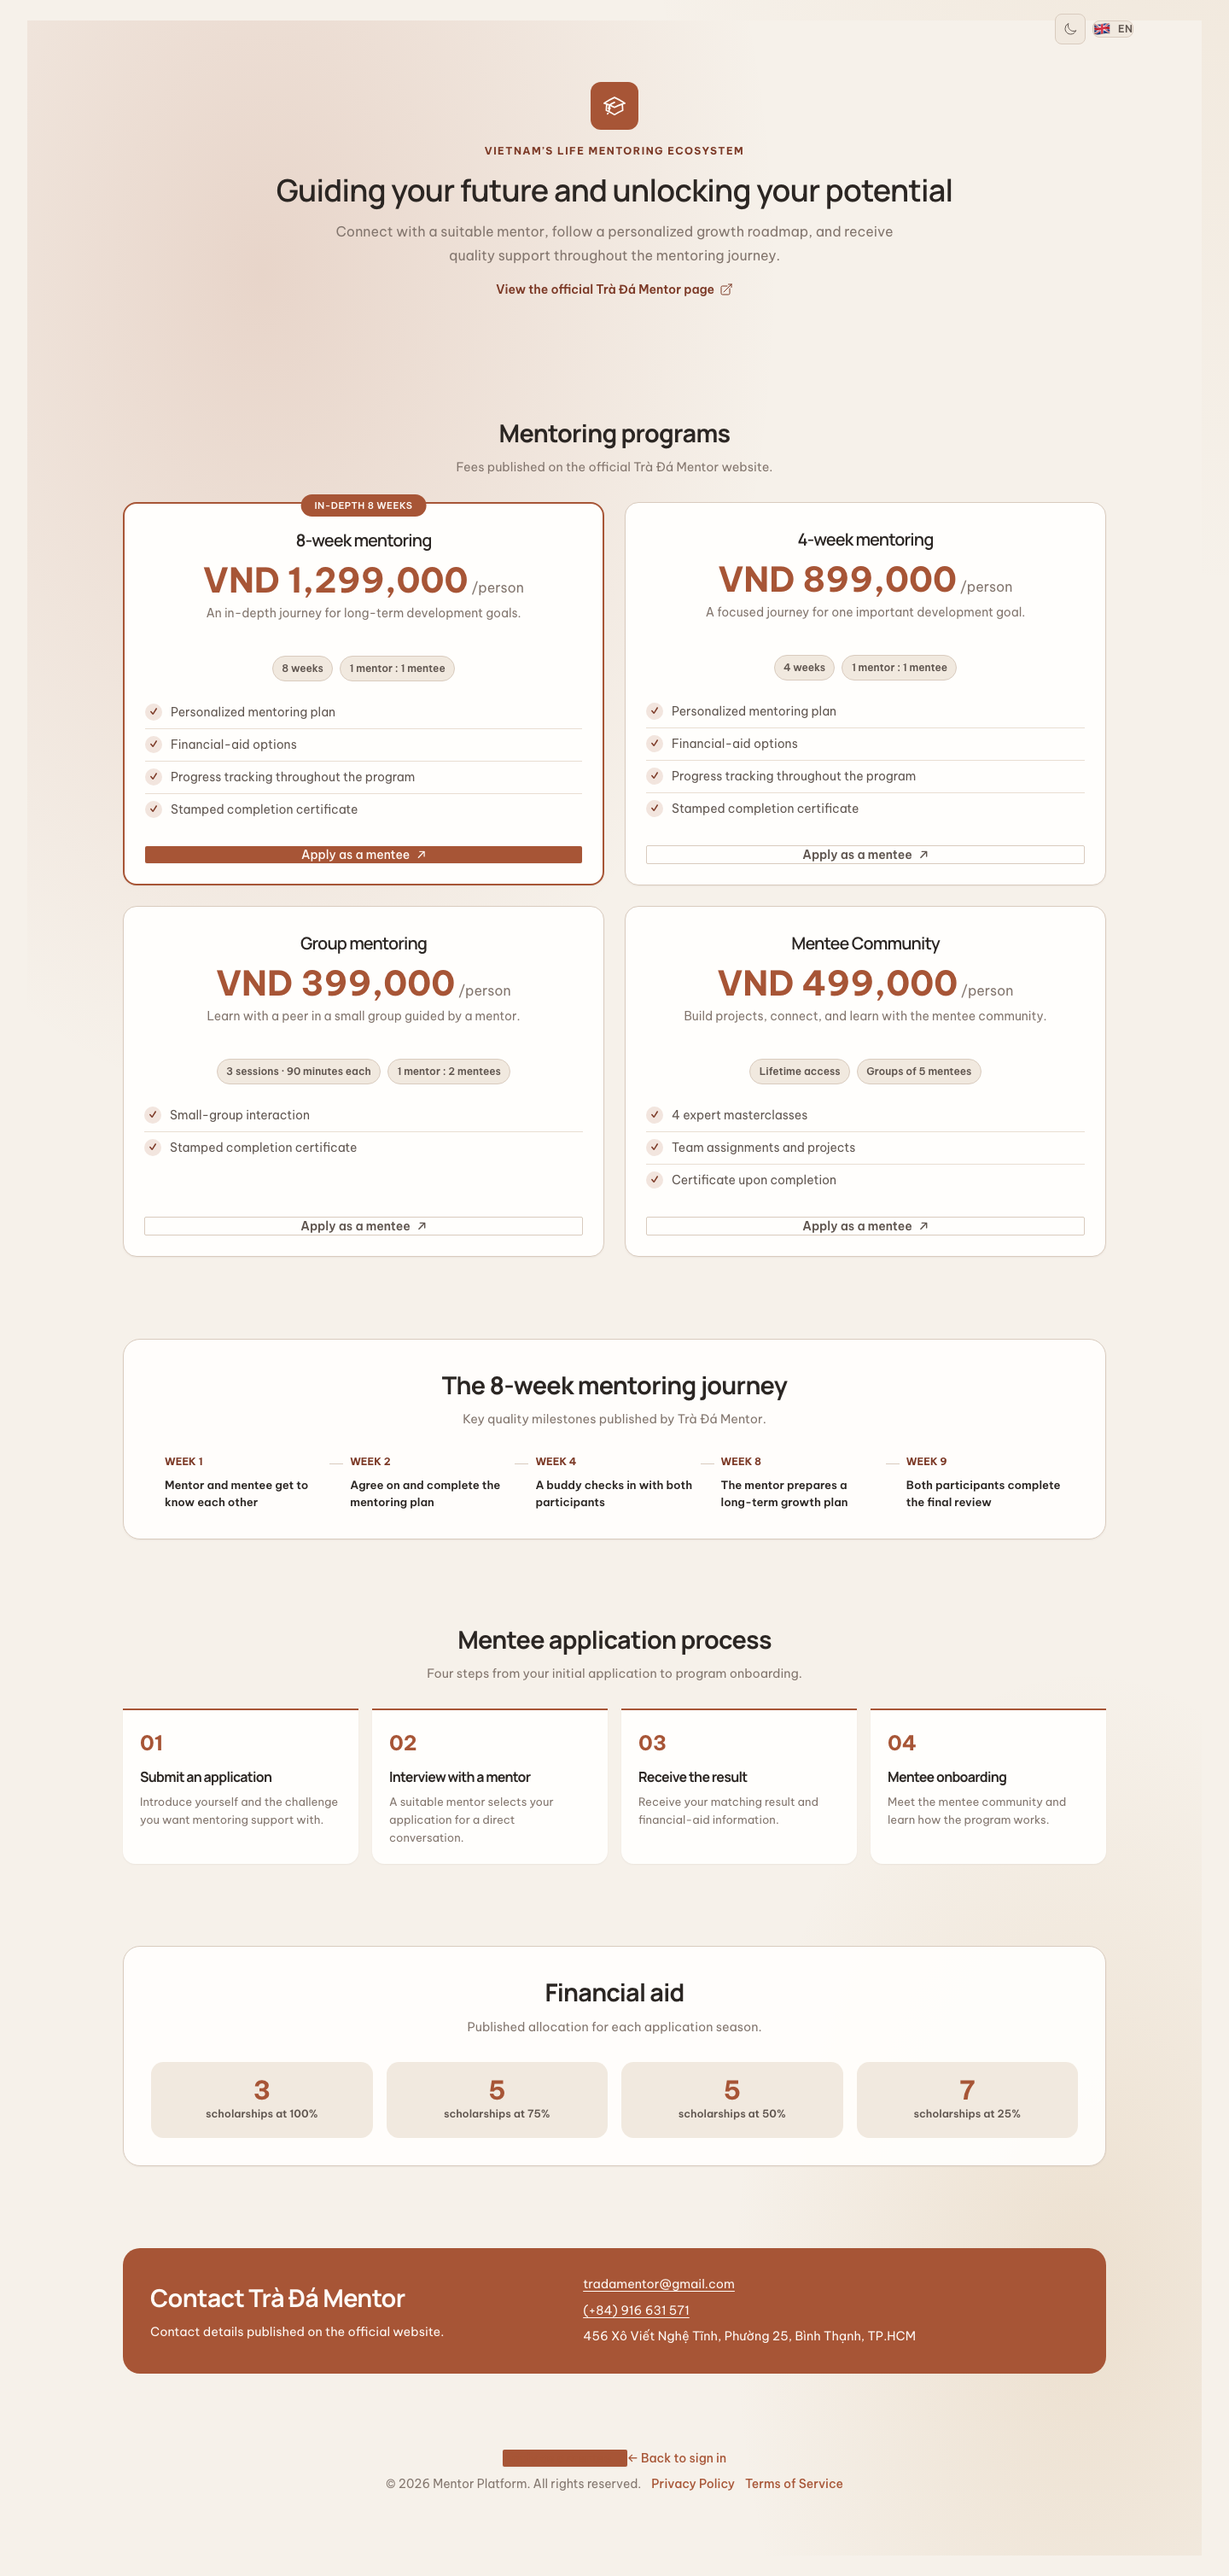
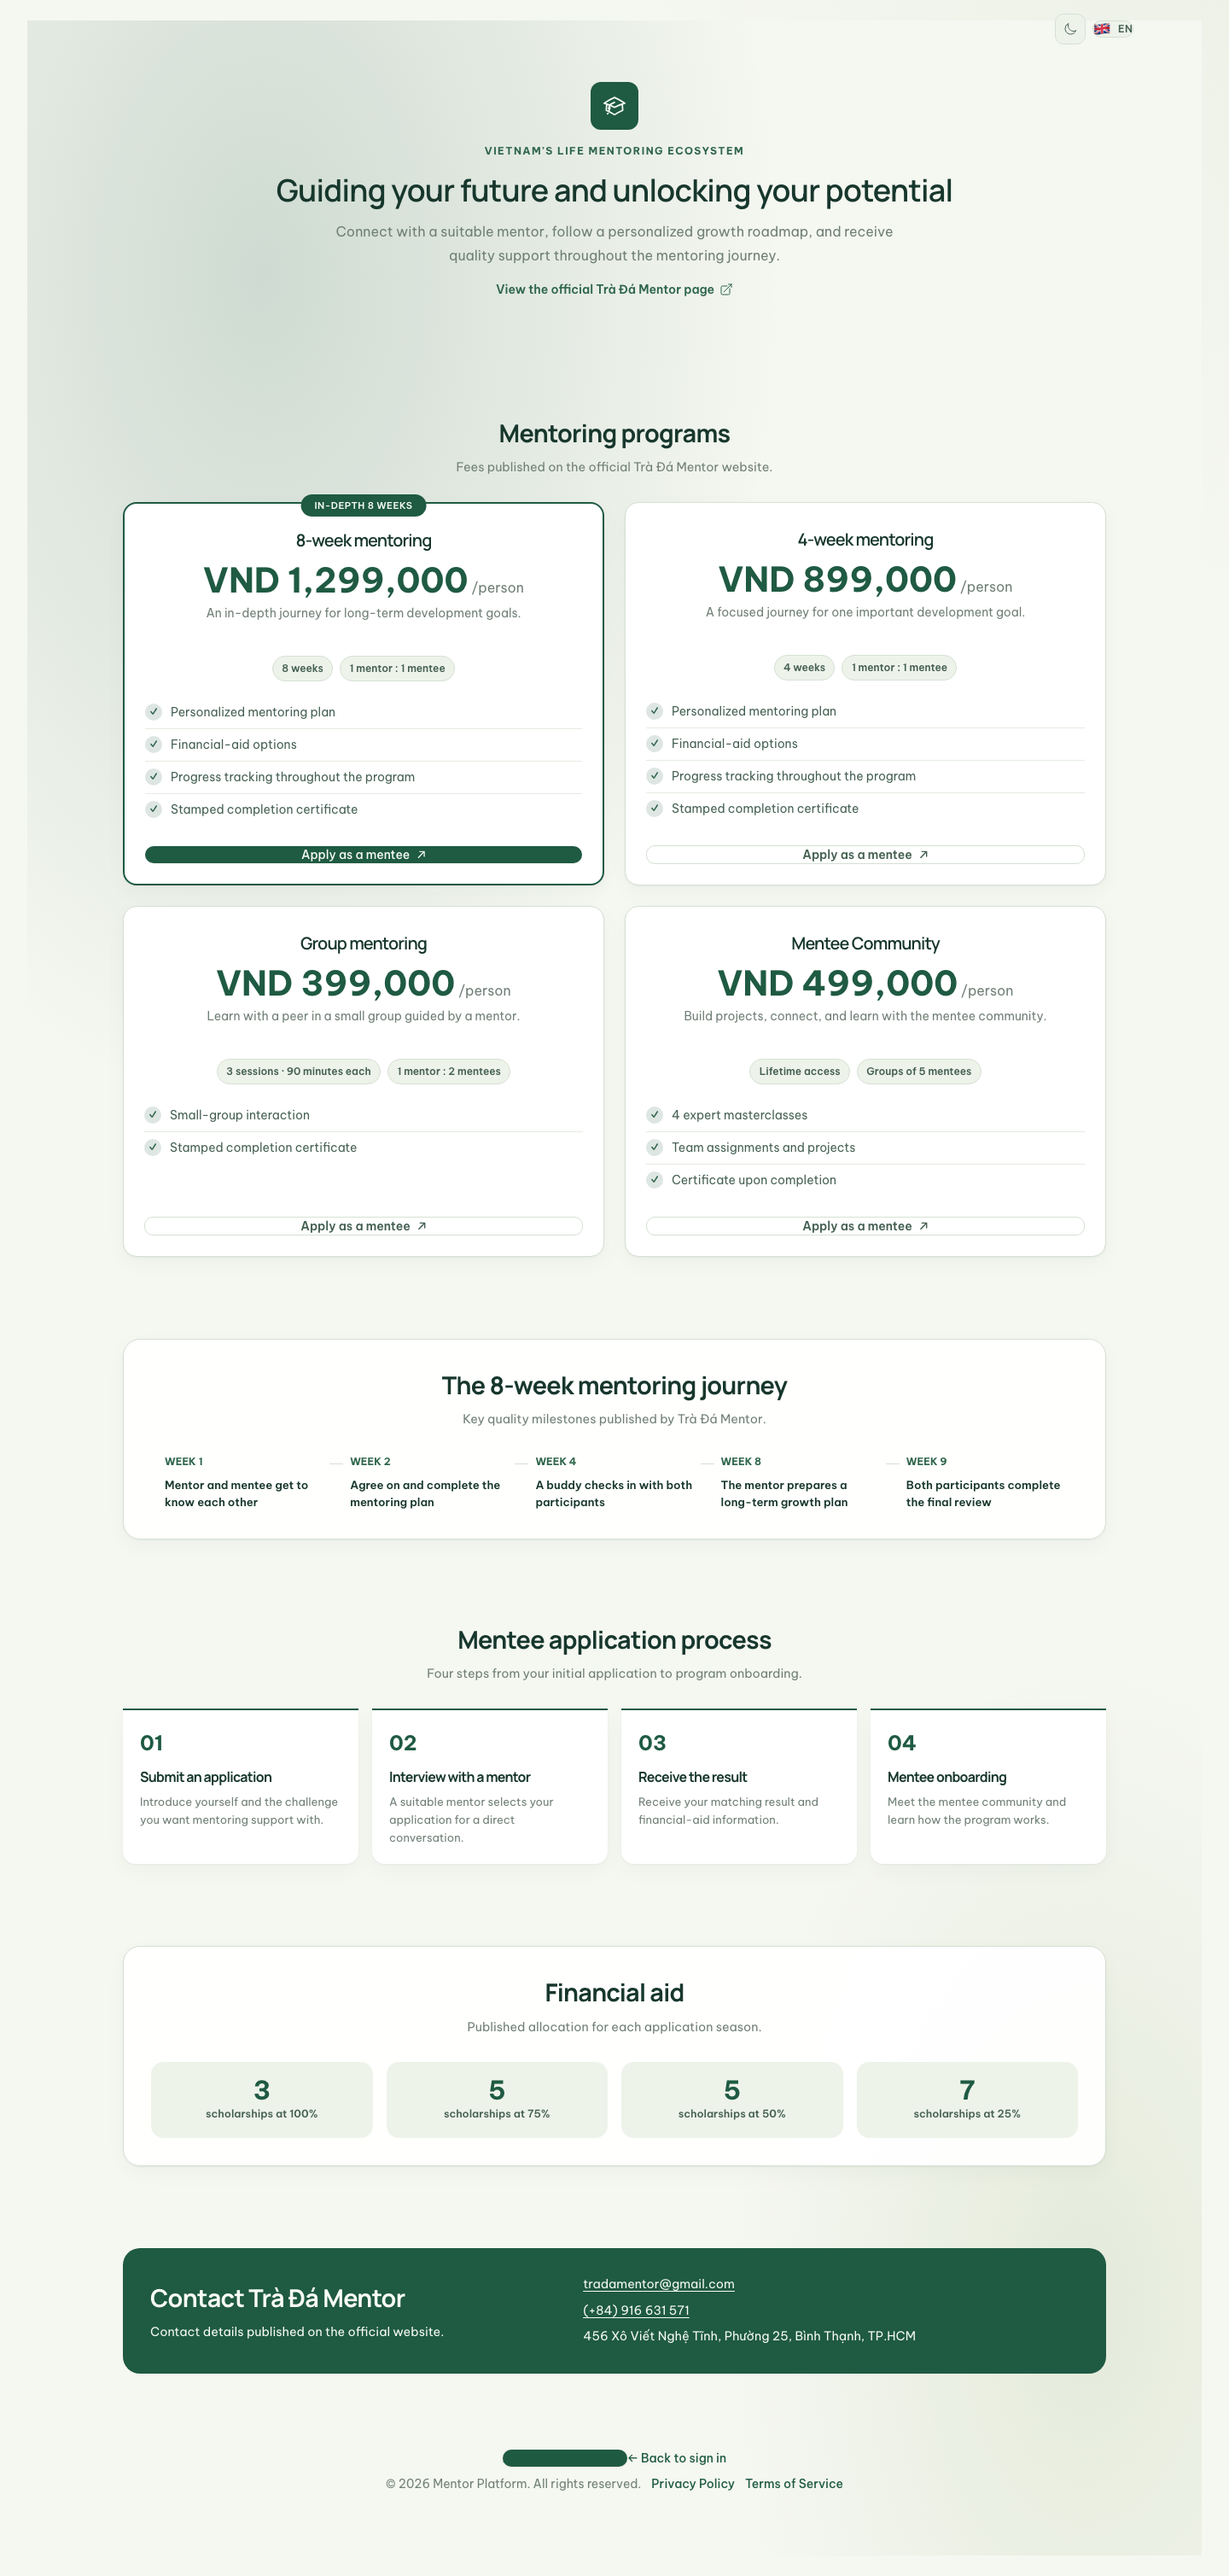
Restore green brand polish
Bring back the Trà Đá Mentor green as the primary visual identity while softening supporting sage tones. Standardize surface radii, borders, shadows, and transitions so internal navigation, cards, buttons, inputs, and progress elements feel cohesive and smooth.\n\nCo-authored-by: Copilot <223556219+Copilot@users.noreply.github.com>

diff --git a/src/index.css b/src/index.css
@@ -14,64 +14,67 @@
   }
 
   :root {
-    --bg-app: #f6f1ea;
-    --bg-sidebar: #fffcf8;
-    --bg-surface: #fffefc;
-    --bg-surface-muted: #f1e9df;
-    --bg-surface-hover: #e9ded2;
-    --bg-inset: #f5eee7;
-    --border-default: #d9cbbe;
-    --border-subtle: #e9ded2;
-    --text-primary: #2b2623;
-    --text-secondary: #5f554f;
-    --text-muted: #82756d;
-    --text-on-accent: #fffaf6;
-    --accent: #a75536;
-    --accent-hover: #8e432b;
-    --accent-subtle: #f3e2d9;
-    --accent-subtle-fg: #7b3825;
-    --accent-secondary: #b98542;
-    --accent-secondary-hover: #c99551;
+    --bg-app: #f5f7f1;
+    --bg-sidebar: #fcfdf9;
+    --bg-surface: #ffffff;
+    --bg-surface-muted: #eef3ea;
+    --bg-surface-hover: #e3ebdd;
+    --bg-inset: #f6f8f3;
+    --border-default: #d5e0d3;
+    --border-subtle: #e4ece1;
+    --text-primary: #17372d;
+    --text-secondary: #456052;
+    --text-muted: #6f7f75;
+    --text-on-accent: #f8fcf6;
+    --accent: #1f5a43;
+    --accent-hover: #174735;
+    --accent-subtle: #e5f0e4;
+    --accent-subtle-fg: #2e654a;
+    --accent-secondary: #8daa64;
+    --accent-secondary-hover: #a9c27c;
     --danger: #b84a45;
     --danger-hover: #963b37;
-    --shadow-card: 0 1px 2px rgb(74 54 42 / 0.06);
-    --ring-offset: #f6f1ea;
-    --primary-color: #a75536;
-    --secondary-color: #7b3825;
-    --accent-color: #b98542;
-    --light-accent: #f3e2d9;
-    --border-radius: 4px;
+    --shadow-card: 0 1px 2px rgb(24 63 45 / 0.05), 0 8px 24px rgb(24 63 45 / 0.035);
+    --ring-offset: #f5f7f1;
+    --primary-color: #1f5a43;
+    --secondary-color: #2e654a;
+    --accent-color: #8daa64;
+    --light-accent: #e5f0e4;
+    --border-radius: 12px;
+    --radius-sm: 10px;
+    --radius-md: 14px;
+    --radius-lg: 18px;
     --transition: all 0.25s cubic-bezier(0.4, 0, 0.2, 1);
   }
 
   .dark {
     color-scheme: dark;
-    --bg-app: #171514;
-    --bg-sidebar: #201c1a;
-    --bg-surface: #24201e;
-    --bg-surface-muted: #302925;
-    --bg-surface-hover: #3a302a;
-    --bg-inset: #1d1917;
-    --border-default: #4a3c34;
-    --border-subtle: #382f2a;
-    --text-primary: #f8f1ea;
-    --text-secondary: #d9c9bd;
-    --text-muted: #a89689;
-    --text-on-accent: #fff8f2;
-    --accent: #d98763;
-    --accent-hover: #e6a17f;
-    --accent-subtle: #4a2c22;
-    --accent-subtle-fg: #f1b49a;
-    --accent-secondary: #d2a164;
-    --accent-secondary-hover: #e0b879;
+    --bg-app: #071e16;
+    --bg-sidebar: #0b281d;
+    --bg-surface: #0f3023;
+    --bg-surface-muted: #153c2e;
+    --bg-surface-hover: #1b4937;
+    --bg-inset: #0b281d;
+    --border-default: #285641;
+    --border-subtle: #1d4634;
+    --text-primary: #f4f7f1;
+    --text-secondary: #d2ded5;
+    --text-muted: #9bb0a2;
+    --text-on-accent: #f7fbf4;
+    --accent: #a9cf77;
+    --accent-hover: #c0e396;
+    --accent-subtle: #183e2e;
+    --accent-subtle-fg: #d8e9b8;
+    --accent-secondary: #b6c982;
+    --accent-secondary-hover: #c9dc9b;
     --danger: #e58378;
     --danger-hover: #f09a8e;
     --shadow-card: none;
-    --ring-offset: #24201e;
-    --primary-color: #d98763;
-    --secondary-color: #e6a17f;
-    --accent-color: #d2a164;
-    --light-accent: #4a2c22;
+    --ring-offset: #0f3023;
+    --primary-color: #a9cf77;
+    --secondary-color: #d8e9b8;
+    --accent-color: #b6c982;
+    --light-accent: #183e2e;
   }
 
   body {
@@ -108,6 +111,7 @@
   /* Surfaces — colors come from the Tailwind theme, which reads the CSS variables above */
   .card {
     @apply rounded-xs border border-surface-border bg-surface transition-shadow duration-200;
+    border-radius: var(--radius-md);
     box-shadow: var(--shadow-card);
   }
 
@@ -125,6 +129,7 @@
     background-color: var(--bg-surface-muted);
     border: 1px solid var(--border-subtle);
     @apply rounded-lg px-3 py-3 transition-colors;
+    border-radius: var(--radius-sm);
   }
 
   .list-row:hover {
@@ -158,6 +163,7 @@
   /* Buttons */
   .btn {
     @apply inline-flex items-center justify-center gap-2 rounded-xs px-4 py-2.5 text-sm font-semibold transition-all duration-200 disabled:opacity-50 disabled:cursor-not-allowed focus:outline-hidden focus:ring-2 focus:ring-offset-2;
+    border-radius: var(--radius-sm);
     --tw-ring-offset-color: var(--ring-offset);
   }
 
@@ -238,6 +244,7 @@
   /* Form */
   .input {
     @apply w-full rounded-lg border border-surface-border bg-surface px-3.5 py-2.5 text-sm text-primary transition-colors placeholder:text-muted focus:outline-hidden focus:ring-2;
+    border-radius: var(--radius-sm);
   }
 
   .input:focus {
@@ -252,6 +259,7 @@
   /* Stats */
   .stat-card {
     @apply rounded-xs border border-surface-border bg-surface p-6 flex flex-col gap-3 transition-shadow duration-200;
+    border-radius: var(--radius-md);
     box-shadow: var(--shadow-card);
   }
 
@@ -1057,14 +1065,14 @@
     border: none;
     background: var(--text-primary);
     color: var(--text-on-accent);
-    box-shadow: 0 18px 50px rgb(74 54 42 / 0.16);
+    box-shadow: 0 18px 50px rgb(8 35 25 / 0.18);
   }
 
   .dashboard-hero__mesh {
     position: absolute;
     inset: 0;
     background:
-      linear-gradient(100deg, rgb(24 20 18 / 0.6) 0%, rgb(43 38 35 / 0.22) 48%, color-mix(in srgb, var(--accent-secondary) 36%, transparent) 100%);
+      linear-gradient(100deg, rgb(5 29 20 / 0.62) 0%, rgb(17 71 53 / 0.24) 48%, color-mix(in srgb, var(--accent-secondary) 36%, transparent) 100%);
     pointer-events: none;
   }
 
@@ -2596,38 +2604,38 @@ html.motion-on [data-reveal] {
 /* ─── App shell (was App.css). Layout utilities come from the Tailwind theme. ─── */
 /* Role accent — đồng bộ --accent cho light & dark */
 .app-container.role-mentor {
-  --primary-color: #b98542;
-  --secondary-color: #8f632e;
-  --accent-color: #c99551;
-  --light-accent: #f4e8d6;
-  --accent: #b98542;
-  --accent-hover: #965f2b;
-  --accent-subtle: #f4e8d6;
-  --accent-subtle-fg: #765022;
-  --text-on-accent: #fffaf6;
+  --primary-color: #6d8d55;
+  --secondary-color: #4c6a3d;
+  --accent-color: #9ebd78;
+  --light-accent: #edf4e6;
+  --accent: #6d8d55;
+  --accent-hover: #587443;
+  --accent-subtle: #edf4e6;
+  --accent-subtle-fg: #4f6e3e;
+  --text-on-accent: #f8fcf6;
 }
 
 .app-container.role-mentee,
 .app-container.role-admin {
-  --primary-color: #a75536;
-  --secondary-color: #7b3825;
-  --accent-color: #b98542;
-  --light-accent: #f3e2d9;
-  --accent: #a75536;
-  --accent-hover: #8e432b;
-  --accent-subtle: #f3e2d9;
-  --accent-subtle-fg: #7b3825;
-  --text-on-accent: #fffaf6;
+  --primary-color: #1f5a43;
+  --secondary-color: #2e654a;
+  --accent-color: #8daa64;
+  --light-accent: #e5f0e4;
+  --accent: #1f5a43;
+  --accent-hover: #174735;
+  --accent-subtle: #e5f0e4;
+  --accent-subtle-fg: #2e654a;
+  --text-on-accent: #f8fcf6;
 }
 
 .dark .app-container.role-mentor,
 .dark .app-container.role-mentee,
 .dark .app-container.role-admin {
-  --accent: #d98763;
-  --accent-hover: #e6a17f;
-  --accent-subtle: #4a2c22;
-  --accent-subtle-fg: #f1b49a;
-  --text-on-accent: #fff8f2;
+  --accent: #a9cf77;
+  --accent-hover: #c0e396;
+  --accent-subtle: #183e2e;
+  --accent-subtle-fg: #d8e9b8;
+  --text-on-accent: #0b281d;
 }
 
 * {
@@ -2648,6 +2656,38 @@ html.motion-on [data-reveal] {
 
 .app-container .btn:hover {
   transform: none;
+}
+
+.app-container .card,
+.app-container .stat-card,
+.app-container .people-card,
+.app-container .insights-stat-card,
+.app-container .modal-panel,
+.app-container .editorial-card,
+.app-container .editorial-panel,
+.app-container .editorial-banner {
+  border-radius: var(--radius-md);
+}
+
+.app-container .nav-item,
+.app-container .search-trigger,
+.app-container .icon-btn,
+.app-container .badge-pill {
+  border-radius: var(--radius-sm);
+}
+
+.app-container .card,
+.app-container .stat-card,
+.app-container .people-card,
+.app-container .editorial-card,
+.app-container .editorial-panel,
+.app-container .editorial-banner,
+.app-container .btn {
+  transition:
+    border-color 180ms ease,
+    background-color 180ms ease,
+    box-shadow 220ms ease,
+    color 180ms ease;
 }
 
 .content {

diff --git a/src/pages/AuthPage.css b/src/pages/AuthPage.css
@@ -54,7 +54,7 @@
   font-weight: 600;
   letter-spacing: -0.045em;
   line-height: 1.02;
-  text-shadow: 0 10px 28px rgb(24 20 18 / 0.45);
+  text-shadow: 0 10px 28px rgb(5 29 20 / 0.45);
 }
 
 .auth-scene__caption::before {
@@ -92,7 +92,7 @@
     content: '';
     position: absolute;
     inset: 0;
-    background: linear-gradient(180deg, rgb(24 20 18 / 0.05) 20%, rgb(24 20 18 / 0.72) 100%);
+    background: linear-gradient(180deg, rgb(5 29 20 / 0.05) 20%, rgb(5 29 20 / 0.72) 100%);
     pointer-events: none;
   }
 
